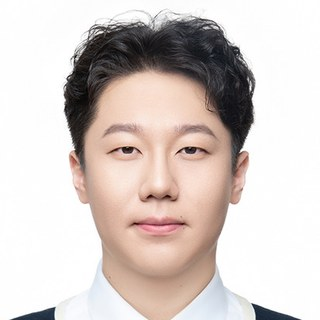
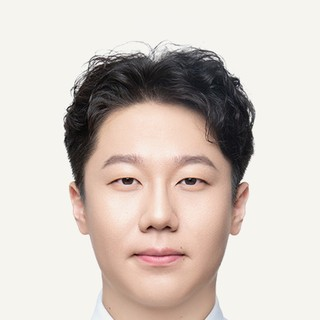
Reframe the headshot and match its backdrop to the page
The crop started 40px down, leaving eleven pixels above the hairline, so the
circular mask clipped the top of the head. It now takes the top square of the
portrait, which centres the face and gives the hair room. The studio backdrop
is remapped to the paper colour, the same treatment the project figures get,
so the avatar no longer reads as a white disc on a warm ground; a hairline
border keeps the circle defined.

diff --git a/style.css b/style.css
@@ -67,7 +67,7 @@ html, body { overflow-x: hidden; }   /* nothing should scroll the page sideways 
 
 /* ---------- Intro ---------- */
 .intro { display: grid; grid-template-columns: 5rem minmax(0, 1fr); gap: 1.5rem; align-items: start; margin-bottom: 2.5rem; }
-.avatar { width: 5rem; height: 5rem; border-radius: 999px; object-fit: cover; }   /* height must be explicit: the img width/height attributes would otherwise set it */
+.avatar { width: 5rem; height: 5rem; border-radius: 999px; object-fit: cover; border: 1px solid var(--divider); }   /* height must be explicit: the img width/height attributes would otherwise set it */
 .intro p { margin: 0 0 0.7rem; color: var(--ink-soft); }
 .intro p:last-child { margin-bottom: 0; }
 
